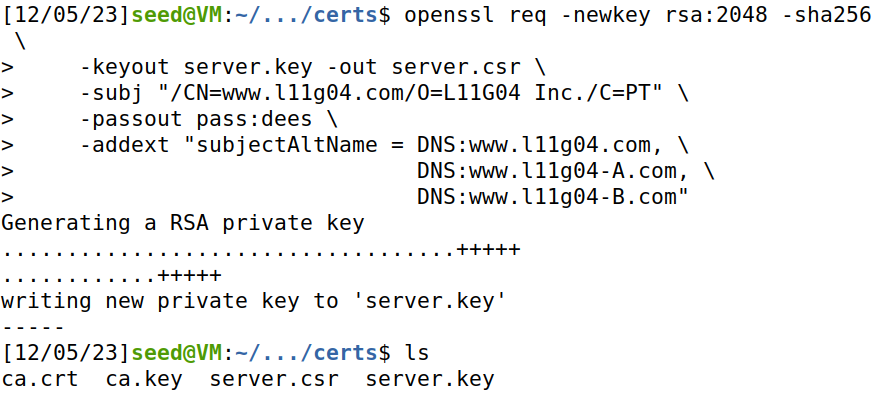
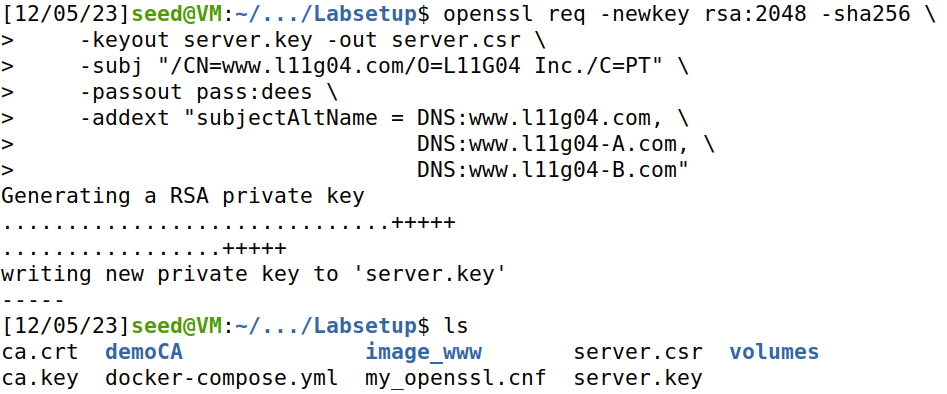
Update LOGBOOK11.md
Finish Task 3.

diff --git a/labs/LOGBOOK11.md b/labs/LOGBOOK11.md
@@ -21,15 +21,15 @@ Our first task was to become a **root CA**.
 
 ### Configuring OpenSSL
 
-We were going to rely on `OpenSSL` to create certificates, meaning we needed a **configuration file**. The default configuration file is located in `/usr/lib/ssl/openssl.cnf`, so we copied it to our working directory like so:
+We were going to rely on `OpenSSL` to create certificates, meaning we needed a **configuration file**. The default configuration file was located in `/usr/lib/ssl/openssl.cnf`, so we copied it to our working directory like so:
 
 ```bash
-cp /usr/lib/ssl/openssl.cnf .
+cp /usr/lib/ssl/openssl.cnf my_openssl.cnf
 ```
 
 In it, there was a section which detailed its default configuration.
 
-![Alt text](image.png)
+![Alt text](images/11-01.png)
 
 To comply with it, we did the following:
 
@@ -39,9 +39,10 @@ To comply with it, we did the following:
 mkdir -p demoCA/newcerts
 ```
 
-* Create an empty "index.php".
+* Create "index.txt", which would be the database index file.
+
 ```bash
-touch demoCA/index.php
+touch demoCA/index.txt
 ```
 
 * Create a "serial" file with a single number in string format.
@@ -50,7 +51,7 @@ touch demoCA/index.php
 echo 2023 > demoCA/serial
 ```
 
-Next, we uncommented a line so we could allow the creation of certificates with the same subject.
+Next, we uncommented a line in our configuration so we could allow the creation of certificates with the same subject.
 
 ```shell
 unique_subject	= no	# Set to 'no' to allow creation of
@@ -74,7 +75,7 @@ Upon submitting our input, the command yielded two new files: "ca.key" and "ca.c
 
 ### Analyzing the Files
 
-To view the content of the output files - "ca.key" and "ca.crt" - the guide provided the commands below:
+To view the content of the output files ("ca.key" and "ca.crt") the guide provided the commands below:
 
 ```bash
 openssl x509 -in ca.crt -text -noout # print the certificate in plain text
@@ -260,8 +261,8 @@ openssl req -newkey rsa:2048 -sha256 \
 ```
 
 It was quite similar to the one used to generate the self-signed certificate. As a matter of fact, the only differences were:
-* `-x509` flag, which prevented the command from self-signing the certificate.
-* The `-addtext` flag coupled with the "subjectAltName" field. We used them to add additional **domains** for our website, thus establishing that www.l11g04.com, www.l11g04-A.com and www.l11g04-B.com were valid hostnames.
+* The `-x509` flag, which prevented the command from self-signing the certificate.
+* The `-addtext` flag coupled with the "subjectAltName" field. This attached the Subject Alternative Name (**SAN**) extension to our certificate, which allowed us to define additional **domains** for our website. 
 
 After running it, two new files were created: the CSR ("server.csr") and the corresponding private key ("server.key").
 
@@ -271,22 +272,36 @@ After running it, two new files were created: the CSR ("server.csr") and the cor
 
 > To form a **certificate**, it is necessary for the <ins>CSR</ins> to be signed by a trusted <ins>CA</ins>.
 
-In the next task, we had to use our own CA to sign the server's CSR, thus generating a **certificate**. Using our CA files - "ca.crt" and "ca.key" - we signed the CSR ("server.csr") using the command below:
+In this task, we had to use our CA to sign the CSR from the [previous task](#task-2-generating-a-csr), thus generating a **certificate**. Using our CA files - "ca.crt" and "ca.key" - we signed the CSR ("server.csr") using the command below:
 
 ```bash
-openssl ca -config openssl.cnf -policy policy_anything \
+openssl ca -config my_openssl.cnf -policy policy_anything \
     -md sha256 -days 3650 \
-    -in certs/server.csr -out certs/server.crt -batch \
-    -cert certs/ca.crt -keyfile certs/ca.key
+    -in server.csr -out server.crt -batch \
+    -cert ca.crt -keyfile ca.key
 ```
 
 **Note**: The policy used - 'policy_anything' - is not the default policy, because that would force some subject information in the CSR to match that in the CA's certificate, which was undesirable. As its name implies, the policy we ended up using did not enfore any such rules.
 
-Before running the command, though, we had to uncomment another line in `openssl.cnf`, because the default settings did not allow copying the extension field from the CSR to the final certificate. In our case, that meant our additional domains would not be valid, so we changed the file like so:
+Before running the command, though, we had to uncomment another line in `openssl.cnf`, because the default settings did not allow copying extension fields from the CSR to the final certificate. In our case, that meant our additional domains would not be valid, so we changed the file like so:
 
 ```shell
 # Extension copying option: use with caution.
 copy_extensions = copy
 ```
 
-With that taken care of, we ran the aforementioned command and 
+With that taken care of, we ran the aforementioned command and verified the certificate had been created.
+
+![Alt text](image-2.png)
+
+The guide also prompted us to verify if our **domains** had been copied into the certificate. So, we printed out its content with the command below:
+
+```bash
+openssl x509 -in server.crt -text -noout
+```
+
+The output was quite big, but we found the extension we added, **SAN**, as well as the domains:
+
+![Alt text](image-4.png)
+
+We had successfully created our first certificate as a CA!
